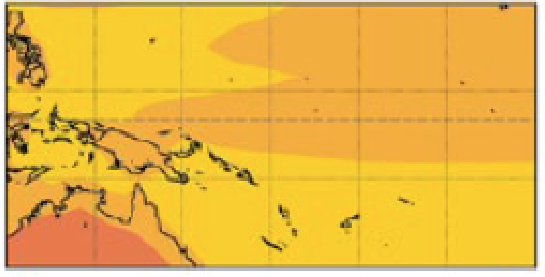
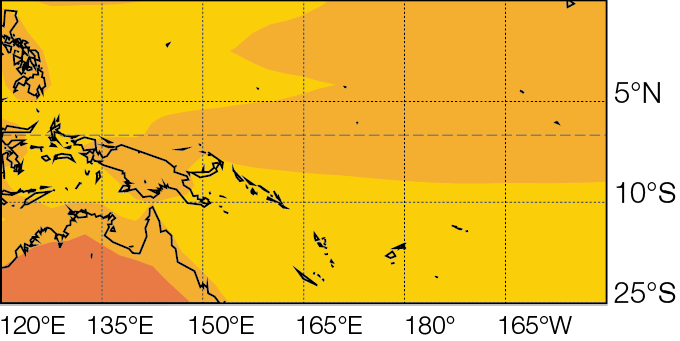
Removed CSIRO and CMAR data pictures. Updated the existing pictures for the Observed and Future trend data for higher resolution ones.

diff --git a/CSS/src/main/java/edu/rmit/eres/seaports/database/ObservedTrendDataSourceLoader.java b/CSS/src/main/java/edu/rmit/eres/seaports/database/ObservedTrendDataSourceLoader.java
@@ -145,7 +145,7 @@ public class ObservedTrendDataSourceLoader {
 	{
 		// Regions
 		Region r1 = (Region)(session.get(Region.class, 1)); // Fiji
-		//Region r2 = (Region)(session.get(Region.class, 2)); // PNG
+		Region r2 = (Region)(session.get(Region.class, 2)); // PNG
 		
 		// Climate Variables
 		ObservedTrendVariable minTe = new ObservedTrendVariable("Minimum Temperatures", "MinTemp", "Trend in minimum temperatures", "&#8451;", "&#8451;");
@@ -161,6 +161,7 @@ public class ObservedTrendDataSourceLoader {
 		Date creationDate = null;
 		Date periodStartDate = null;
 		Date periodStartDate2 = null;
+		Date periodStartDate3 = null;
 		Date periodEndDate = null;
 		try {
 			creationDate = dateFormatter.parse("2011-01-01");
@@ -178,11 +179,17 @@ public class ObservedTrendDataSourceLoader {
 			periodStartDate2 = new Date();
 		}
 		try {
+			periodStartDate3 = dateFormatter.parse("1950-01-01");
+		} catch (ParseException e) {
+			periodStartDate3 = new Date();
+		}
+		try {
 			periodEndDate = dateFormatter.parse("2010-01-01");
 		} catch (ParseException e) {
 			periodEndDate = new Date();
 		}
 		
+		// Fiji
 		String sourceName = "Fiji Meteorological Services";
 		session.save(new ObservedTrendData(creationDate, r1, periodStartDate, periodEndDate, minTe, SEASON_ANNUAL, 0.6, null, sourceName));
 		session.save(new ObservedTrendData(creationDate, r1, periodStartDate, periodEndDate, minTe, SEASON_WARM, 0.7, null, sourceName));
@@ -197,8 +204,11 @@ public class ObservedTrendDataSourceLoader {
 		session.save(new ObservedTrendData(creationDate, r1, periodStartDate, periodEndDate, rf, SEASON_COOL, 0.76, 0.11, sourceName));
 		
 		String sourceName2 = "Climate Change in the Pacific: Scientific Assessment and New Research: Vol 2 Country Reports, Ch 5 Fiji Islands";
-		session.save(new ObservedTrendData(creationDate, r1, periodStartDate, periodStartDate2, slr, SEASON_ANNUAL, 0.6, null, sourceName2));
-		session.save(new ObservedTrendData(creationDate, r1, periodStartDate, periodStartDate2, slr, SEASON_WARM, 0.6, null, sourceName2));
-		session.save(new ObservedTrendData(creationDate, r1, periodStartDate, periodStartDate2, slr, SEASON_COOL, 0.6, null, sourceName2));
+		session.save(new ObservedTrendData(creationDate, r1, periodStartDate2, periodEndDate, slr, SEASON_ANNUAL, 0.6, null, sourceName2));
+		session.save(new ObservedTrendData(creationDate, r1, periodStartDate2, periodEndDate, slr, SEASON_WARM, 0.6, null, sourceName2));
+		session.save(new ObservedTrendData(creationDate, r1, periodStartDate2, periodEndDate, slr, SEASON_COOL, 0.6, null, sourceName2));
+
+		// PNG
+		session.save(new ObservedTrendData(creationDate, r1, periodStartDate3, periodEndDate, slr, SEASON_ANNUAL, 0.0, null, sourceName2));
 	}
 }

diff --git a/CSS/src/main/java/edu/rmit/eres/seaports/controller/ReportController.java b/CSS/src/main/java/edu/rmit/eres/seaports/controller/ReportController.java
@@ -725,13 +725,6 @@ public class ReportController {
 		else if (element.getClass().equals(DataElement.class)) {
 			DataElement de = ((DataElement)element);
 			
-			/*if (de.getDataSource() instanceof CsiroDataSource)
-			{
-				CsiroDataSource csiroDataSource = (CsiroDataSource)de.getDataSource();
-				csiroDataSource.init(csiroDataDao);
-				de.setData(csiroDataSource.getData(de));
-				de.getDataSource().flush();
-			}*/
 			try {
 				// Instantiate the data source of the sub-type specified by the data source name
 				String className = "edu.rmit.eres.seaports.model." + WordUtils.capitalize(de.getDataSource().getName()) + "DataSource";
@@ -739,25 +732,29 @@ public class ReportController {
 				constructor.setAccessible(true);
 				
 				// Cast to the correct specific data source type
-			    Class<? extends DataSource> dataSourceClass = Class.forName(className).asSubclass(DataSource.class);
+				Class<? extends DataSource> dataSourceClass = Class.forName(className).asSubclass(DataSource.class);
 			    DataSource ds = dataSourceClass.cast(constructor.newInstance(new Object[] { de.getDataSource() }));
 			    
-				// Retrieves the data and set the field
-			   if (ds instanceof ObservedTrendDataSource)
-					ds.init(observedTrendDataDao);
-			   if (ds instanceof ObservedExtremeDataSource || ds instanceof FutureExtremeDataSource)
-					ds.init(extremeDataDao);
-			   if (ds instanceof FutureTrendDataSource)
-					ds.init(futureTrendDataDao);
-			   try {
-				   List<?> data = ds.getData(de);
-				   de.setData(data);
-			   }
-			   catch (NoResultException e) {
-				  e.printStackTrace();
-			   }
-			   ds.flush();
-			   return de;
+			    // Initiate the data source with an Autowired DAO if needed
+			    if (ds instanceof ObservedTrendDataSource)
+			    	ds.init(observedTrendDataDao);
+			    if (ds instanceof ObservedExtremeDataSource || ds instanceof FutureExtremeDataSource)
+			    	ds.init(extremeDataDao);
+			    if (ds instanceof FutureTrendDataSource)
+			    	ds.init(futureTrendDataDao);
+			    
+			    // Retrieves the data and set the element's data field
+			    try {
+			    	List<?> data = ds.getData(de);
+			    	de.setData(data);
+			    }
+			    catch (NoResultException e) {
+			    	e.printStackTrace();
+			    }
+			    
+			    // Flushes the datasource (dispose of resources not needed such as DAOs)
+			    ds.flush();
+			    return de;
 			}
 			catch (NoSuchMethodException | SecurityException | ClassNotFoundException | InstantiationException 
 					| IllegalAccessException | IllegalArgumentException | InvocationTargetException e) {

diff --git a/CSS/src/main/java/edu/rmit/eres/seaports/database/ObservedExtremeDataSourceLoader.java b/CSS/src/main/java/edu/rmit/eres/seaports/database/ObservedExtremeDataSourceLoader.java
@@ -91,7 +91,7 @@ public class ObservedExtremeDataSourceLoader {
 		seaports.add((Seaport)(session.get(Seaport.class, "FJLEV")));
 		seaports.add((Seaport)(session.get(Seaport.class, "FJWAI")));
 		
-		seaports.add((Seaport)(session.get(Seaport.class, "PGGUR")));
+		/*eaports.add((Seaport)(session.get(Seaport.class, "PGGUR")));
 		seaports.add((Seaport)(session.get(Seaport.class, "PGATP")));
 		seaports.add((Seaport)(session.get(Seaport.class, "PGBUA")));
 		seaports.add((Seaport)(session.get(Seaport.class, "PGDAU")));
@@ -105,7 +105,7 @@ public class ObservedExtremeDataSourceLoader {
 		seaports.add((Seaport)(session.get(Seaport.class, "PGPOM")));
 		seaports.add((Seaport)(session.get(Seaport.class, "PGRAB")));
 		seaports.add((Seaport)(session.get(Seaport.class, "PGVAI")));
-		seaports.add((Seaport)(session.get(Seaport.class, "PGWWK")));
+		seaports.add((Seaport)(session.get(Seaport.class, "PGWWK")));*/
 		
 		dsExtreme.setSeaports(seaports);
 		

diff --git a/CSS/src/main/java/edu/rmit/eres/seaports/database/FutureTrendDataSourceLoader.java b/CSS/src/main/java/edu/rmit/eres/seaports/database/FutureTrendDataSourceLoader.java
@@ -153,7 +153,7 @@ public class FutureTrendDataSourceLoader {
 	{
 		// Regions
 		Region r1 = (Region)(session.get(Region.class, 1)); // Fiji
-		//Region r2 = (Region)(session.get(Region.class, 2)); // PNG
+		Region r2 = (Region)(session.get(Region.class, 2)); // PNG
 		
 		
 		// Emission Scenarios
